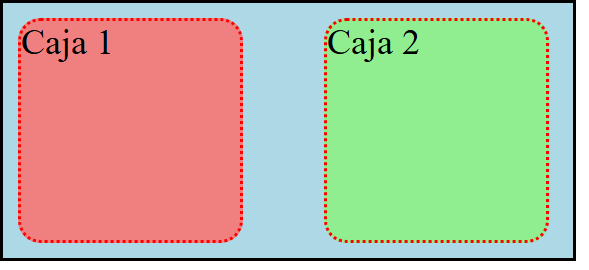
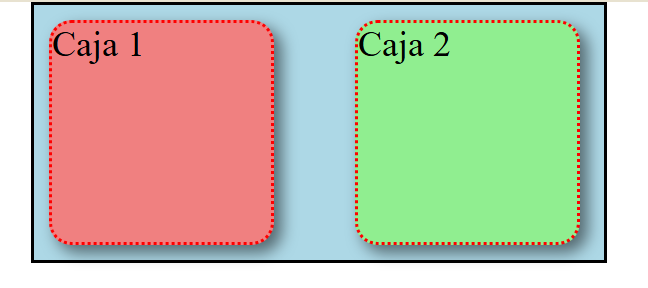
Actualizar imagen del checkpoint y añadir centrado y sombra

diff --git a/base4/profesor.html b/base4/profesor.html
@@ -15,8 +15,8 @@
 <meta name="viewport" content="width=device-width,initial-scale=1">
 <meta name="robots" content="noindex">
 <title>Entregas · Profesor</title>
-<link rel="stylesheet" href="/base/motor/estilos.css?v=20261124104158-base4">
-<link rel="stylesheet" href="motor/taller.css?v=20261124104158-base4">
+<link rel="stylesheet" href="/base/motor/estilos.css?v=20261124105854-base4">
+<link rel="stylesheet" href="motor/taller.css?v=20261124105854-base4">
 <style>
 .revision{padding:20px 16px 32px;max-width:1700px;margin:auto}
 .revision h1{font-size:1.5rem;line-height:1.25;margin:0}
@@ -151,7 +151,7 @@
 #nota-ai-status:empty,#avisos:empty,#nota-session:empty{display:none}
 @media(max-width:760px){.nota-auth{justify-content:flex-end}.nota-auth #nota-session{flex-basis:100%;text-align:right}}
 </style>
-<link rel="stylesheet" href="motor/editor-profesor.css?v=20261124104158-base4">
+<link rel="stylesheet" href="motor/editor-profesor.css?v=20261124105854-base4">
 </head>
 <body>
 <section id="login-page" class="login-page" aria-labelledby="login-title">
@@ -261,11 +261,11 @@
   </div>
 </main>
 
-<script src="motor/apartados.js?v=20261124104158-base4"></script>
-<script src="motor/herramientas.js?v=20261124104158-base4"></script>
-<script src="motor/correo-profesor.js?v=20261124104158-base4"></script>
-<script src="motor/notas.js?v=20261124104158-base4"></script>
-<script src="motor/editor-profesor.js?v=20261124104158-base4" defer></script>
+<script src="motor/apartados.js?v=20261124105854-base4"></script>
+<script src="motor/herramientas.js?v=20261124105854-base4"></script>
+<script src="motor/correo-profesor.js?v=20261124105854-base4"></script>
+<script src="motor/notas.js?v=20261124105854-base4"></script>
+<script src="motor/editor-profesor.js?v=20261124105854-base4" defer></script>
 <script>
 (async () => {
 'use strict';

diff --git a/base4/index.html b/base4/index.html
@@ -9,8 +9,8 @@ Formatos y ejemplos: README-apartados.md. Antes de publicar: scripts/revision.mj
 <meta charset="utf-8">
 <meta name="viewport" content="width=device-width,initial-scale=1">
 <title>Laboratorio</title>
-<link rel="stylesheet" href="/base/motor/estilos.css?v=20261124104158-base4">
-<link rel="stylesheet" href="motor/taller.css?v=20261124104158-base4">
+<link rel="stylesheet" href="/base/motor/estilos.css?v=20261124105854-base4">
+<link rel="stylesheet" href="motor/taller.css?v=20261124105854-base4">
 </head>
 <body>
 <div id="utility-actions">
@@ -197,11 +197,11 @@ Formatos y ejemplos: README-apartados.md. Antes de publicar: scripts/revision.mj
   </div>
 </dialog>
 
-<footer class="lab-version">Última revisión del HTML: <time datetime="2026-11-24T10:41:58.357Z">24/11/26, 11:41</time> · Europe/Madrid</footer>
+<footer class="lab-version">Última revisión del HTML: <time datetime="2026-11-24T10:58:54.058Z">24/11/26, 11:58</time> · Europe/Madrid</footer>
 
-<script src="motor/enlaces.js?v=20261124104158-base4" defer></script>
-<script src="motor/entrega-archivo.js?v=20261124104158-base4"></script>
-<script src="motor/cargador.js?v=20261124104158-base4" defer></script>
+<script src="motor/enlaces.js?v=20261124105854-base4" defer></script>
+<script src="motor/entrega-archivo.js?v=20261124105854-base4"></script>
+<script src="motor/cargador.js?v=20261124105854-base4" defer></script>
 <dialog id="file-delivery-dialog" class="guard-dialog" aria-labelledby="file-delivery-title">
  <h2 id="file-delivery-title">Recuperar práctica desde archivo</h2>
  <p id="file-delivery-status" role="status" style="white-space:pre-wrap;overflow-wrap:anywhere"></p>

diff --git a/base4/actividades/diw/02-02-checkpoint-modelo-de-caja/enunciado.html b/base4/actividades/diw/02-02-checkpoint-modelo-de-caja/enunciado.html
@@ -15,9 +15,11 @@
   <li>Aplica un espacio entre las cajas. Ajusta su valor para que ambas se mantengan dentro del contenedor en cualquier caso.</li>
   <li>Aumenta la separación de las cajas respecto al borde del contenedor utilizando la propiedad <code>padding</code>.</li>
   <li>Aplica un borde redondeado a las cajas.</li>
+  <li>Centra horizontalmente el contenedor principal utilizando <code>auto</code>.</li>
+  <li>Añade una sombra a las cajas.</li>
 </ol>
 <figure>
-  <img src="/base4/actividades/diw/02-02-checkpoint-modelo-de-caja/referencia.png" alt="Referencia visual: dos cajas, una roja y otra verde, con borde rojo punteado y esquinas redondeadas dentro de un contenedor azul claro con borde negro." width="590" height="261" style="display:block;max-width:100%;height:auto">
+  <img src="/base4/actividades/diw/02-02-checkpoint-modelo-de-caja/referencia.png?v=2" alt="Referencia visual: dos cajas, una roja y otra verde, con borde rojo punteado, esquinas redondeadas y sombra dentro de un contenedor azul claro con borde negro." width="648" height="288" style="display:block;max-width:100%;height:auto">
   <figcaption>Referencia visual del acabado. Comprueba las medidas y la contención con los requisitos del enunciado.</figcaption>
 </figure>
 <p><strong>Antes de entregar:</strong> cambia el ancho de la vista previa y comprueba que las cajas siguen dentro del contenedor. Conserva en el CSS los comentarios reflexivos de cada paso.</p>

diff --git a/base4/motor/cargador.js b/base4/motor/cargador.js
@@ -5,7 +5,7 @@
   'use strict';
   const loaderURL=new URL(document.currentScript.src);
   const root=new URL('../',loaderURL);
-  const version=loaderURL.searchParams.get('v')||'20261124104158-base4';
+  const version=loaderURL.searchParams.get('v')||'20261124105854-base4';
   const asset=path=>{const url=new URL(path,root);url.searchParams.set('v',version);return url;};
   const fetchAsset=async path=>{
     // La configuración cambia sin necesidad de publicar otra versión del HTML.
